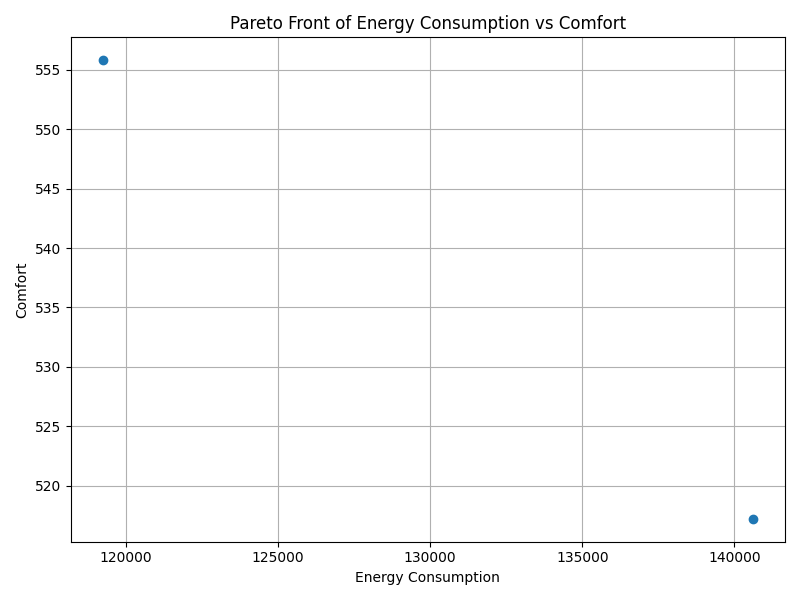
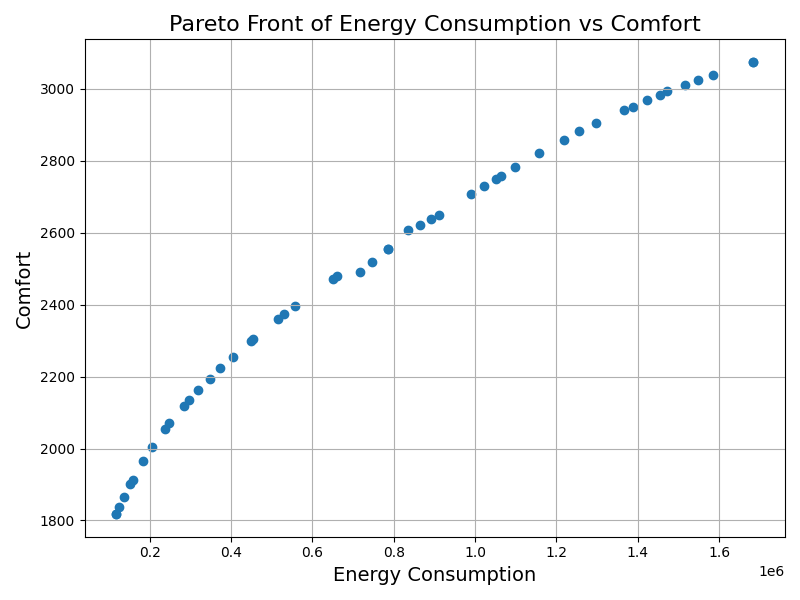
docs update diagram

diff --git a/docs/Example.md b/docs/Example.md
@@ -347,14 +347,61 @@ OMC session closed successfully.
 You will see the results at the end of simulation like this:
 
 ```shell
-Optimization Results:
-Solution 0: Energy = 118249.77, Comfort = 1817.59,
-Solution 1: Energy = 118249.77, Comfort = 1817.59,
-Solution 2: Energy = 1682427.04, Comfort = 3073.43,
-Solution 3: Energy = 492612.01, Comfort = 2191.09,
-Solution 4: Energy = 968440.92, Comfort = 2686.64,
-Solution 5: Energy = 631214.26, Comfort = 2455.39,
 ...
+   100 |     5000 |     50 |  0.0031202395 |             f
+Optimization Results:
+Solution 0: Energy = 1683944.96, Comfort = 3074.81,
+Solution 1: Energy = 118249.77, Comfort = 1817.60,
+Solution 2: Energy = 1683944.96, Comfort = 3074.81,
+Solution 3: Energy = 118249.77, Comfort = 1817.60,
+Solution 4: Energy = 990666.54, Comfort = 2706.51,
+Solution 5: Energy = 911860.57, Comfort = 2648.50,
+Solution 6: Energy = 515215.82, Comfort = 2359.04,
+Solution 7: Energy = 835602.55, Comfort = 2606.62,
+Solution 8: Energy = 745744.39, Comfort = 2517.19,
+Solution 9: Energy = 1157466.41, Comfort = 2821.38,
+Solution 10: Energy = 454719.13, Comfort = 2303.91,
+Solution 11: Energy = 1296560.30, Comfort = 2904.91,
+Solution 12: Energy = 374082.06, Comfort = 2223.35,
+Solution 13: Energy = 283399.71, Comfort = 2117.14,
+Solution 14: Energy = 716472.49, Comfort = 2491.76,
+Solution 15: Energy = 248647.78, Comfort = 2069.58,
+Solution 16: Energy = 1366392.43, Comfort = 2942.05,
+Solution 17: Energy = 1021489.97, Comfort = 2728.62,
+Solution 18: Energy = 1517262.96, Comfort = 3011.96,
+Solution 19: Energy = 1097303.16, Comfort = 2781.52,
+Solution 20: Energy = 136370.09, Comfort = 1864.18,
+Solution 21: Energy = 158015.71, Comfort = 1913.03,
+Solution 22: Energy = 1422577.37, Comfort = 2969.70,
+Solution 23: Energy = 1586150.01, Comfort = 3039.63,
+Solution 24: Energy = 787135.29, Comfort = 2555.69,
+Solution 25: Energy = 1547145.24, Comfort = 3024.26,
+Solution 26: Energy = 1473206.51, Comfort = 2992.92,
+Solution 27: Energy = 404821.56, Comfort = 2255.21,
+Solution 28: Energy = 558581.73, Comfort = 2396.62,
+Solution 29: Energy = 787135.29, Comfort = 2555.69,
+Solution 30: Energy = 1217645.63, Comfort = 2859.06,
+Solution 31: Energy = 864384.88, Comfort = 2620.60,
+Solution 32: Energy = 660473.92, Comfort = 2480.77,
+Solution 33: Energy = 530846.76, Comfort = 2372.74,
+Solution 34: Energy = 347377.37, Comfort = 2194.18,
+Solution 35: Energy = 1256593.65, Comfort = 2882.21,
+Solution 36: Energy = 152981.66, Comfort = 1902.23,
+Solution 37: Energy = 649879.03, Comfort = 2472.21,
+Solution 38: Energy = 892160.79, Comfort = 2636.94,
+Solution 39: Energy = 206851.82, Comfort = 2004.69,
+Solution 40: Energy = 1453971.43, Comfort = 2982.01,
+Solution 41: Energy = 238575.76, Comfort = 2054.81,
+Solution 42: Energy = 184698.05, Comfort = 1965.72,
+Solution 43: Energy = 125296.39, Comfort = 1836.44,
+Solution 44: Energy = 448166.30, Comfort = 2297.71,
+Solution 45: Energy = 1387654.91, Comfort = 2950.49,
+Solution 46: Energy = 1051306.87, Comfort = 2749.67,
+Solution 47: Energy = 298007.19, Comfort = 2135.79,
+Solution 48: Energy = 1064447.73, Comfort = 2758.86,
+Solution 49: Energy = 319668.29, Comfort = 2162.22,
 ```
 
-After that you will see the result of Pareto Front. 
+After that you will see the Pareto front:
+
+![Pareto Front of the Simple Heating System](../assets/SimpleHeatingSystem_Pareto_Front.png) 
